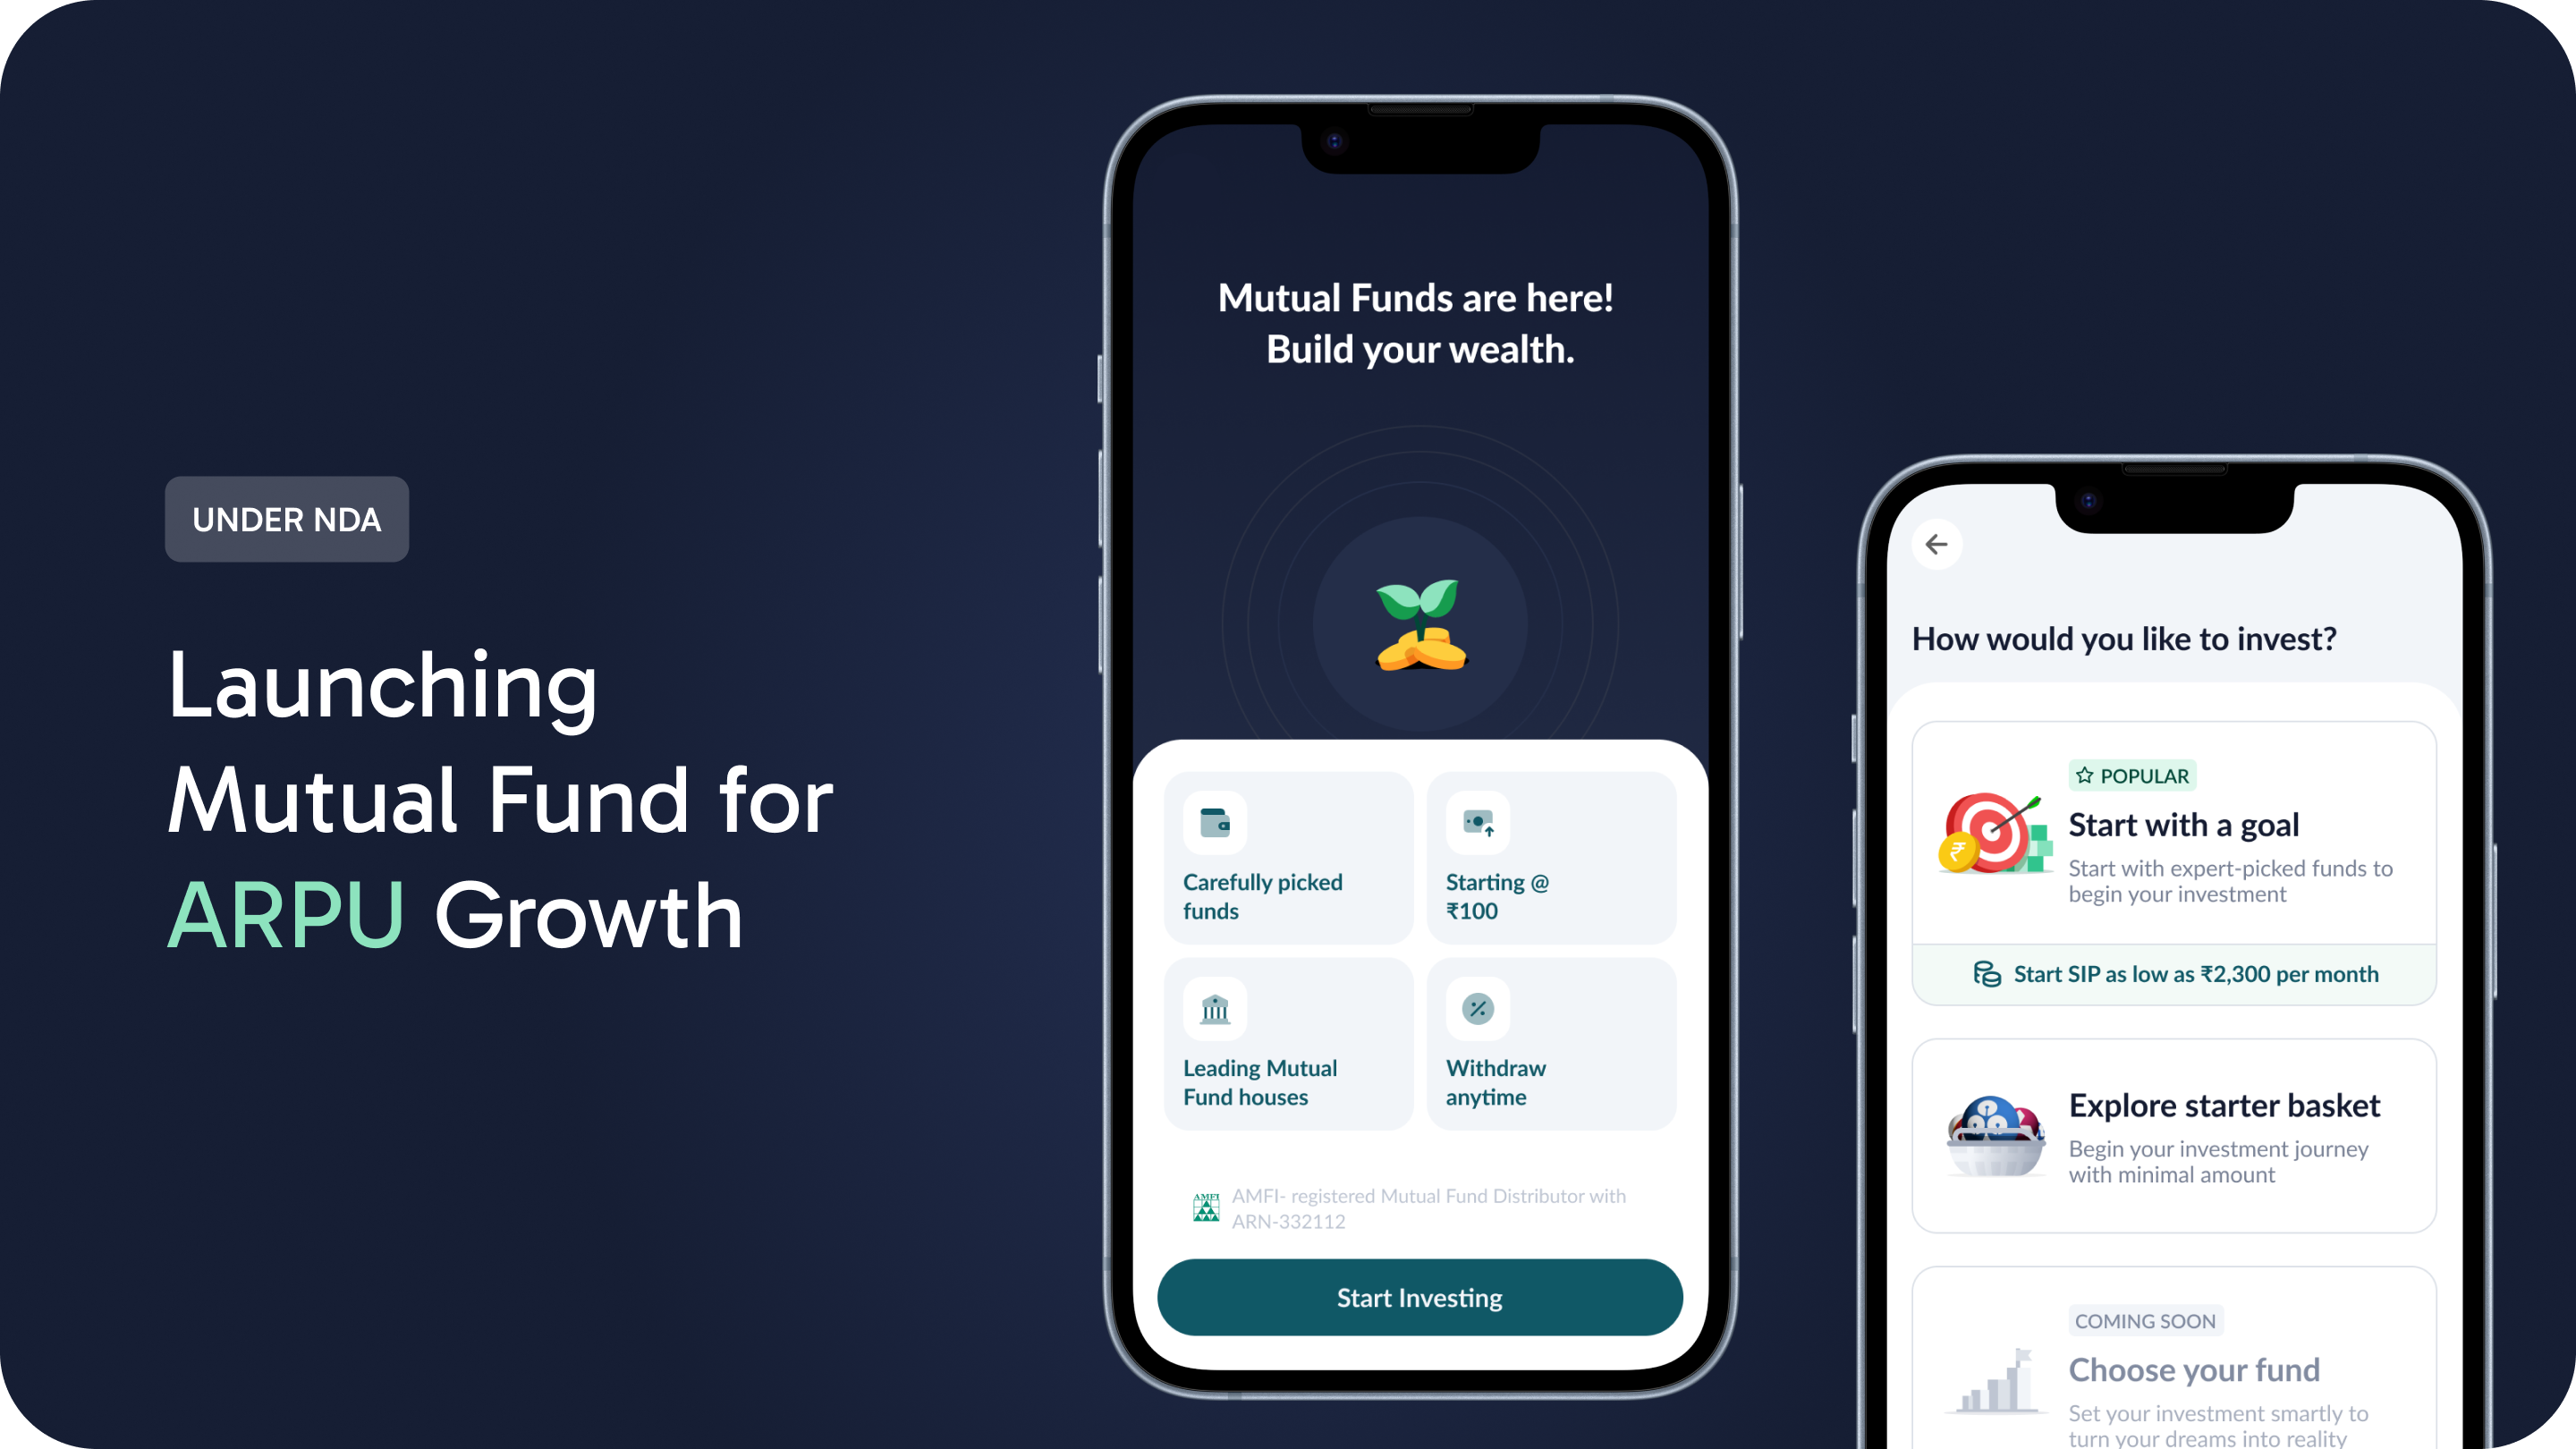
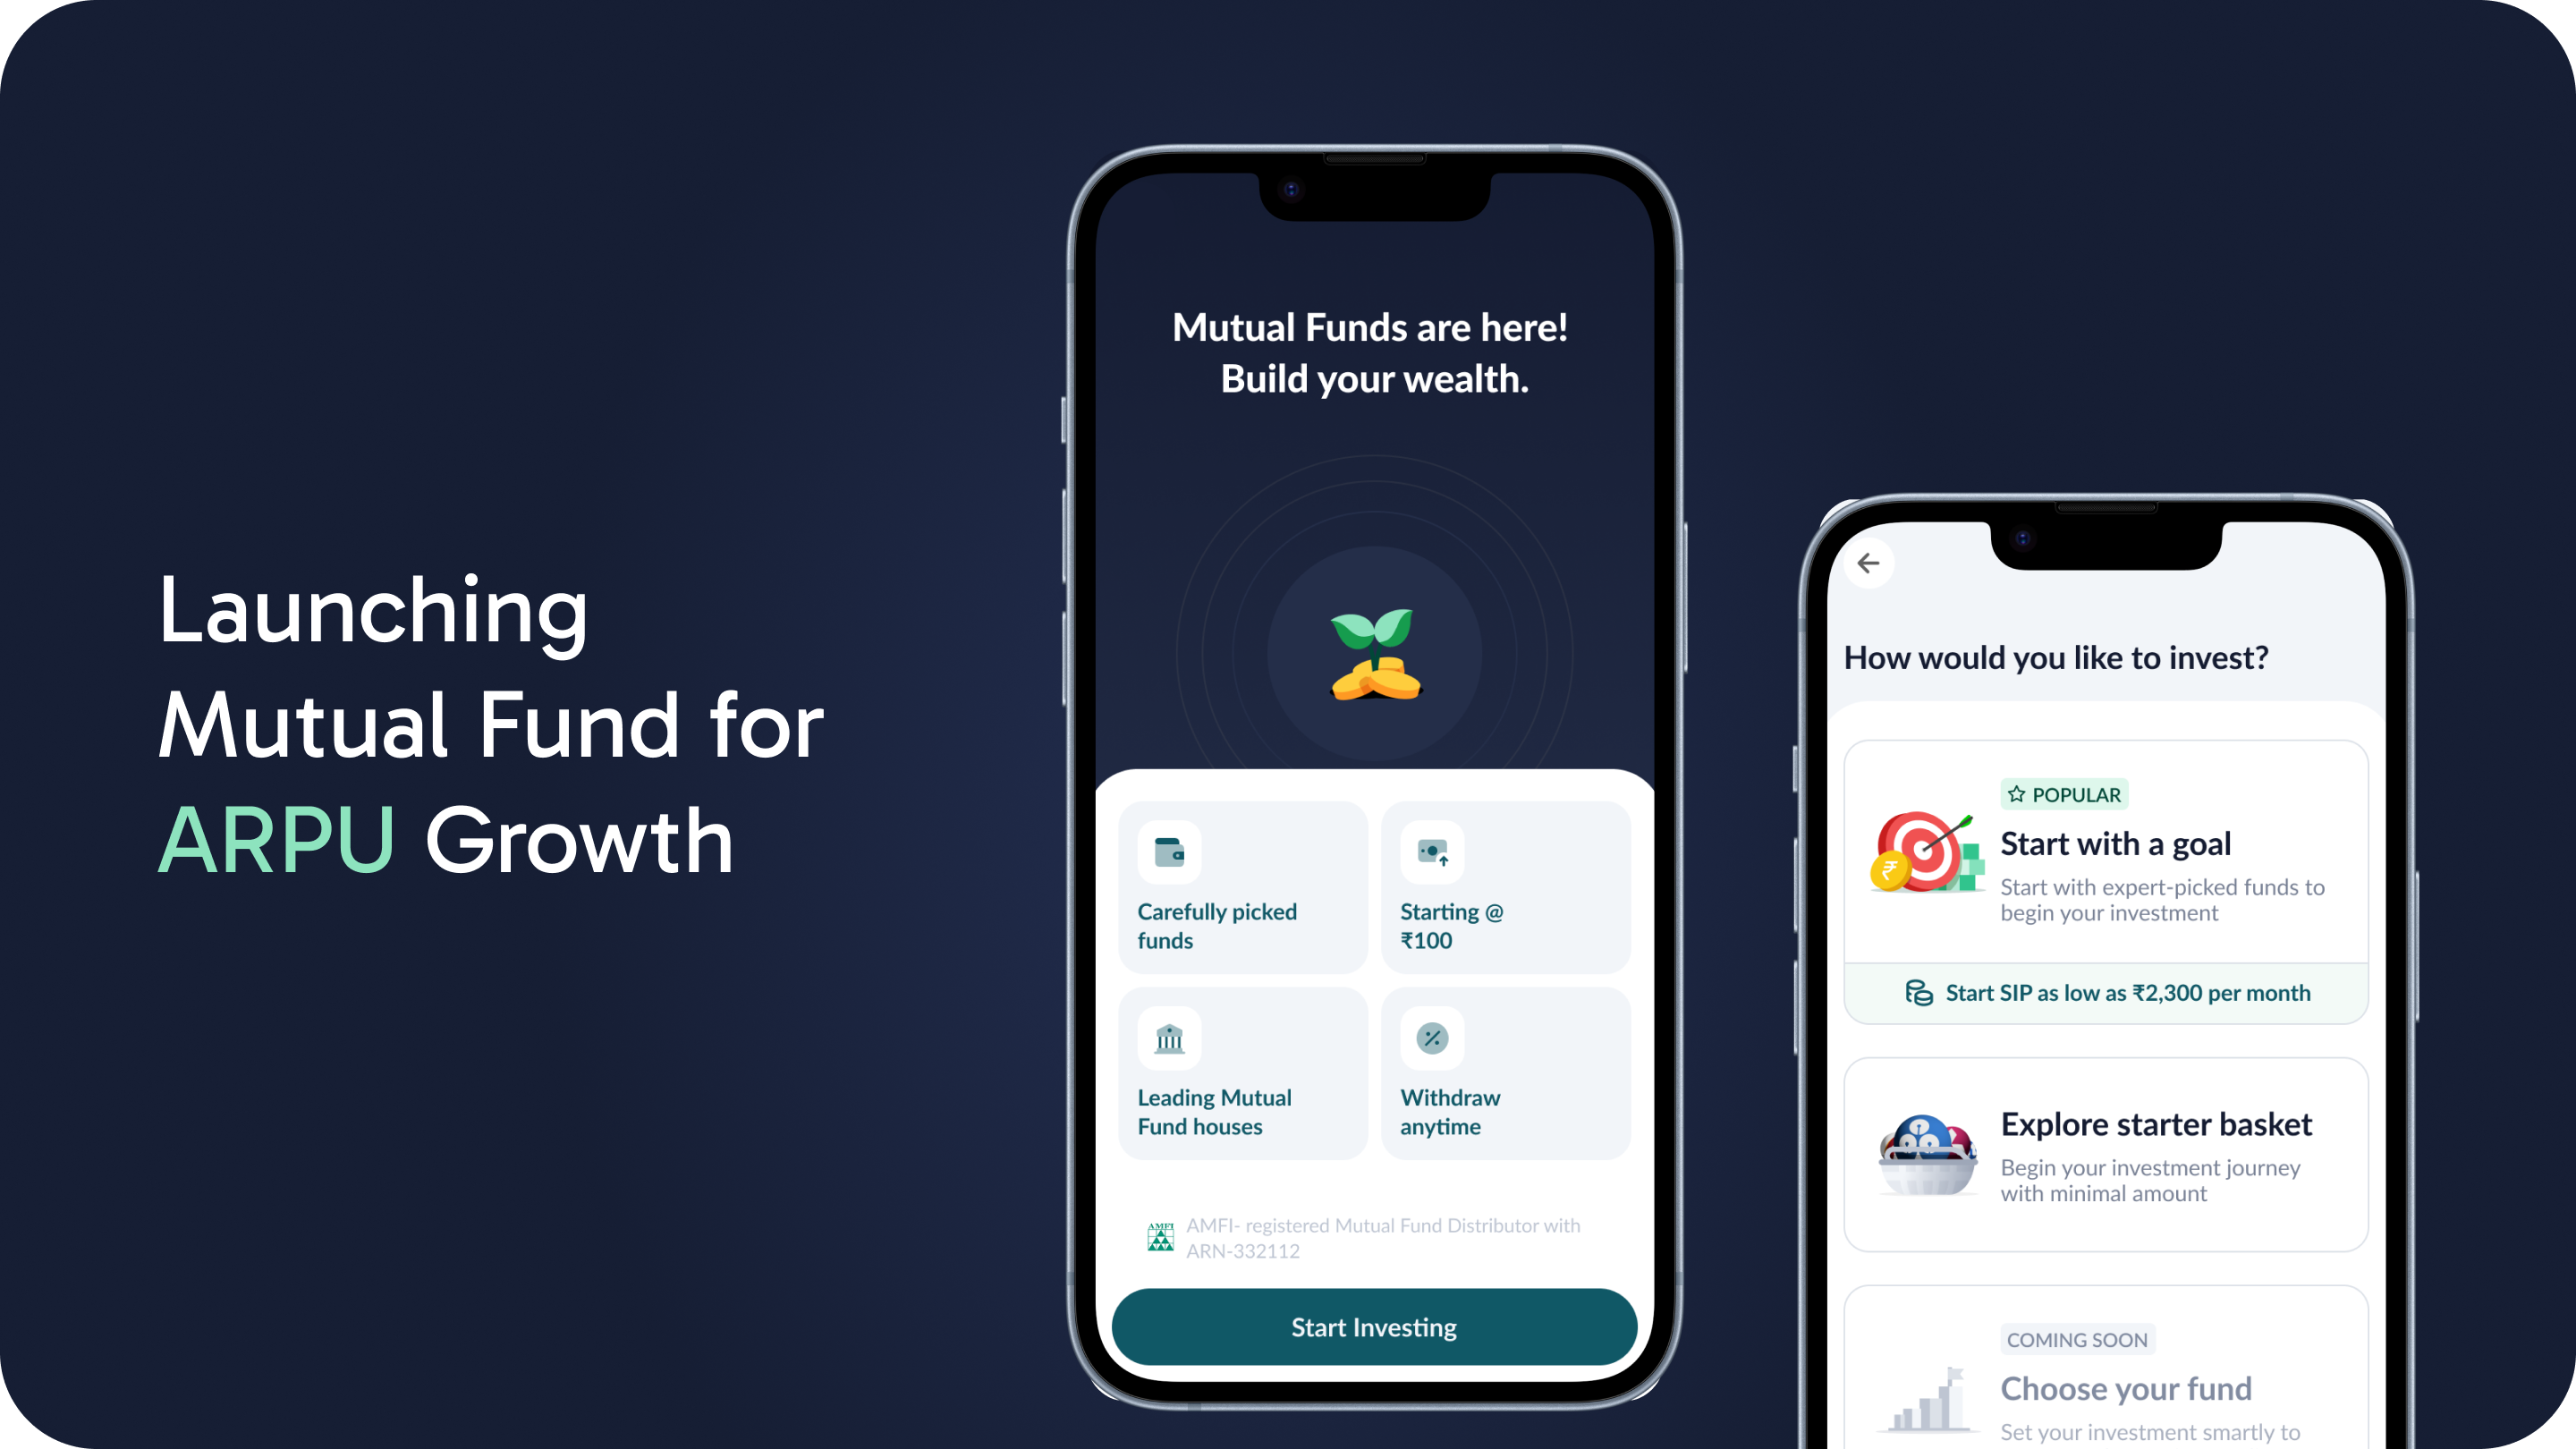
fix work cards — arrow, type line, numbers, hover

Changed region(s): [[0.4062, 0.0617, 0.9688, 1.0], [0.0625, 0.3086, 0.3438, 0.6481], [0.5312, 0.679, 0.5938, 0.8025]]

diff --git a/css/main.css b/css/main.css
@@ -1017,6 +1017,7 @@ footer {
   background: none;
   border: none;
   outline: none;
+  text-transform: none;
   box-shadow: none;
   font-family: var(--font-sans);
   font-size: var(--text-base);
@@ -1265,4 +1266,168 @@ body {
   .nav-mobile-trigger {
     display: none !important;
   }
+}
+/* --- WORK COMPANIES --- */
+.work-companies { display: flex; flex-direction: column; }
+
+.company-row {
+  display: grid;
+  grid-template-columns: 220px 1fr;
+  gap: 48px;
+  padding: 48px 0;
+  border-top: 1px solid var(--color-border);
+  align-items: start;
+}
+
+.company-left {
+  position: sticky;
+  top: calc(var(--nav-height) + 24px);
+}
+
+.company-num {
+  font-family: var(--font-sans);
+  font-size: var(--text-xs);
+  color: var(--color-text-muted);
+  letter-spacing: var(--tracking-wide);
+  margin-bottom: var(--space-3);
+}
+
+.company-name {
+  font-family: var(--font-display);
+  font-size: 40px;
+  font-weight: 500;
+  color: var(--color-text-primary);
+  letter-spacing: -0.03em;
+  line-height: 1;
+  margin-bottom: var(--space-4);
+}
+
+.company-meta {
+  font-family: var(--font-sans);
+  font-size: var(--text-sm);
+  color: var(--color-text-secondary);
+  line-height: 1.8;
+  margin-bottom: var(--space-4);
+}
+
+.company-tag {
+  display: inline-block;
+  font-family: var(--font-sans);
+  font-size: var(--text-xs);
+  color: var(--color-text-muted);
+  border: 1px solid var(--color-border);
+  padding: 3px 12px;
+  border-radius: var(--radius-full);
+  letter-spacing: var(--tracking-label);
+}
+
+.company-right {
+  display: flex;
+  flex-direction: column;
+  gap: 12px;
+}
+
+.case-card {
+  display: block;
+  border: 1px solid var(--color-border);
+  border-radius: var(--radius-lg);
+  overflow: hidden;
+  background: var(--color-surface);
+  text-decoration: none;
+  transition: transform var(--duration-normal) var(--ease-out),
+              border-color var(--duration-normal) var(--ease-out),
+              box-shadow var(--duration-normal) var(--ease-out);
+}
+
+.case-card:hover {
+  transform: translateY(-3px);
+  border-color: var(--color-border);
+  box-shadow: 0 8px 24px rgba(0,0,0,0.06);
+}
+
+[data-theme="dark"] .case-card:hover {
+  box-shadow: 0 12px 40px rgba(0,0,0,0.3);
+}
+
+.case-img {
+  width: 100%;
+  height: 360px;
+  position: relative;
+  overflow: hidden;
+}
+
+.case-img img {
+  width: 100%;
+  height: 100%;
+  object-fit: cover;
+  transition: transform var(--duration-slow) var(--ease-out);
+}
+
+.case-card:hover .case-img img {
+  transform: scale(1.03);
+}
+
+.case-nda {
+  position: absolute;
+  top: 14px;
+  left: 14px;
+  background: rgba(255,255,255,0.12);
+  backdrop-filter: blur(8px);
+  -webkit-backdrop-filter: blur(8px);
+  color: rgba(255,255,255,0.85);
+  font-family: var(--font-sans);
+  font-size: 10px;
+  font-weight: 500;
+  padding: 4px 12px;
+  border-radius: var(--radius-full);
+  letter-spacing: 0.06em;
+  text-transform: uppercase;
+  border: 0.5px solid rgba(255,255,255,0.2);
+  z-index: 1;
+}
+
+.case-arrow {
+  font-size: 18px;
+  color: var(--color-text-muted);
+  flex-shrink: 0;
+  margin-top: 2px;
+  transition: transform var(--duration-fast) var(--ease-out);
+}
+
+.case-card:hover .case-arrow {
+  transform: translate(2px, -2px);
+}
+
+.case-body {
+  padding: var(--space-6) var(--space-8);
+  border-top: 1px solid var(--color-border);
+  display: flex;
+  flex-direction: column;
+  gap: var(--space-2);
+}
+
+.case-type {
+  font-family: var(--font-sans);
+  font-size: var(--text-xs);
+  color: var(--color-text-muted);
+  letter-spacing: var(--tracking-label);
+  text-transform: uppercase;
+}
+
+.case-title {
+  font-family: var(--font-display);
+  font-size: var(--text-lg);
+  font-weight: 500;
+  color: var(--color-text-primary);
+  letter-spacing: var(--tracking-heading);
+  line-height: var(--leading-heading);
+  flex: 1;
+}
+
+.case-year {
+  font-family: var(--font-sans);
+  font-size: var(--text-sm);
+  color: var(--color-text-secondary);
+  margin-top: var(--space-2);
+  display: block;
 }

diff --git a/index.html b/index.html
@@ -146,55 +146,79 @@
   <section class="section" id="work">
     <div class="container">
       <p class="section-label">Selected Work</p>
-      <div class="work-grid">
+      <div class="work-companies">
 
-        <!-- Syfe -->
-        <a href="work/syfe.html" class="work-card reveal">
-          <div class="work-card-image">
-            <img src="images/work/syfe-cover.png" alt="Syfe — Wealth Management Platform" />
+        <div class="company-row">
+          <div class="company-left">
+            <h2 class="company-name">Syfe</h2>
+            <p class="company-meta">Dec 2025 – Present<br>Singapore<br>Wealth Management</p>
+            <span class="company-tag">Fintech</span>
           </div>
-          <div class="work-card-body">
-            <p class="work-card-meta">Syfe · Fintech · 2024–2025</p>
-            <h2 class="work-card-title">How do you make wealth management feel approachable?</h2>
-            <p class="work-card-desc">End-to-end product design for one of Southeast Asia's fastest growing wealth platforms.</p>
+          <div class="company-right">
+            <a href="work/syfe.html" class="case-card">
+              <div class="case-img" style="background:#0f1a3d;">
+                <span class="case-nda">Under NDA</span>
+                <img src="images/work/syfe-cover.png" alt="Syfe" />
+              </div>
+              <div class="case-body">
+                <p class="case-title">How do you make wealth management feel approachable?</p>
+                <span class="case-year">2024–2025</span>
+                <span class="case-arrow">↗</span>
+              </div>
+            </a>
           </div>
-        </a>
+        </div>
 
-        <!-- BharatPe -->
-        <a href="work/bharatpe.html" class="work-card reveal">
-          <div class="work-card-image">
-            <img src="images/work/bharatpe-cover.png" alt="BharatPe — Fintech for merchants" />
+        <div class="company-row">
+          <div class="company-left">
+            <h2 class="company-name">BharatPe</h2>
+            <p class="company-meta">Oct 2024 – Dec 2025<br>Gurugram, India<br>Merchant Fintech</p>
+            <span class="company-tag">Fintech</span>
           </div>
-          <div class="work-card-body">
-            <p class="work-card-meta">BharatPe · Fintech · 2022–2024</p>
-            <h2 class="work-card-title">How do you design for 100 million merchants who've never used a bank app?</h2>
-            <p class="work-card-desc">Designing financial tools for India's underserved merchant ecosystem.</p>
+          <div class="company-right">
+            <a href="work/bharatpe.html" class="case-card">
+              <div class="case-img" style="background:#0d2137;">
+                <span class="case-nda">Under NDA</span>
+                <img src="images/work/bharatpe-cover.png" alt="BharatPe" />
+              </div>
+              <div class="case-body">
+                <p class="case-title">How do you design for 100 million merchants who've never used a bank app?</p>
+                <span class="case-year">2024–2025</span>
+                <span class="case-arrow">↗</span>
+              </div>
+            </a>
           </div>
-        </a>
+        </div>
 
-        <!-- ChefKart Customer App -->
-        <a href="work/chefkart-1.html" class="work-card reveal">
-          <div class="work-card-image">
-            <img src="images/work/chefkart-1-cover.png" alt="ChefKart — Customer App Home Page Revamp" />
+        <div class="company-row">
+          <div class="company-left">
+            <h2 class="company-name">ChefKart</h2>
+            <p class="company-meta">Mar 2021 – Oct 2024<br>Gurugram, India<br>Consumer · Food Tech</p>
+            <span class="company-tag">Consumer</span>
           </div>
-          <div class="work-card-body">
-            <p class="work-card-meta">ChefKart · Consumer · 2021–2024</p>
-            <h2 class="work-card-title">How do you redesign a home page when your business has already changed?</h2>
-            <p class="work-card-desc">Homepage revamp for a consumer app navigating a business pivot from subscriptions to on-demand.</p>
+          <div class="company-right">
+            <a href="work/chefkart-1.html" class="case-card">
+              <div class="case-img" style="background:#ea6c1a;">
+                <img src="images/work/chefkart-1-cover.png" alt="ChefKart Customer App" />
+              </div>
+              <div class="case-body">
+                <p class="case-title">How do you redesign a home page when your business has already changed?</p>
+                <span class="case-year">2023–2024</span>
+                <span class="case-arrow">↗</span>
+              </div>
+            </a>
+            <a href="work/chefkart-2.html" class="case-card">
+              <div class="case-img" style="background:#5b21b6;">
+                <img src="images/work/chefkart-2-cover.png" alt="ChefKart Partner App" />
+              </div>
+              <div class="case-body">
+                <p class="case-title">How do you build a partner app for users who've never used one before?</p>
+                <span class="case-year">2021–2024</span>
+                <span class="case-arrow">↗</span>
+              </div>
+            </a>
           </div>
-        </a>
-
-        <!-- ChefKart Partner App -->
-        <a href="work/chefkart-2.html" class="work-card reveal">
-          <div class="work-card-image">
-            <img src="images/work/chefkart-2-cover.png" alt="ChefKart — Partner App for Next Billion Users" />
-          </div>
-          <div class="work-card-body">
-            <p class="work-card-meta">ChefKart · Consumer · 2021–2024</p>
-            <h2 class="work-card-title">How do you build a partner app for users who've never used one before?</h2>
-            <p class="work-card-desc">Redesigning the partner app for blue-collar workers — from 30% to 90% adoption rate.</p>
-          </div>
-        </a>
+        </div>
 
       </div>
     </div>